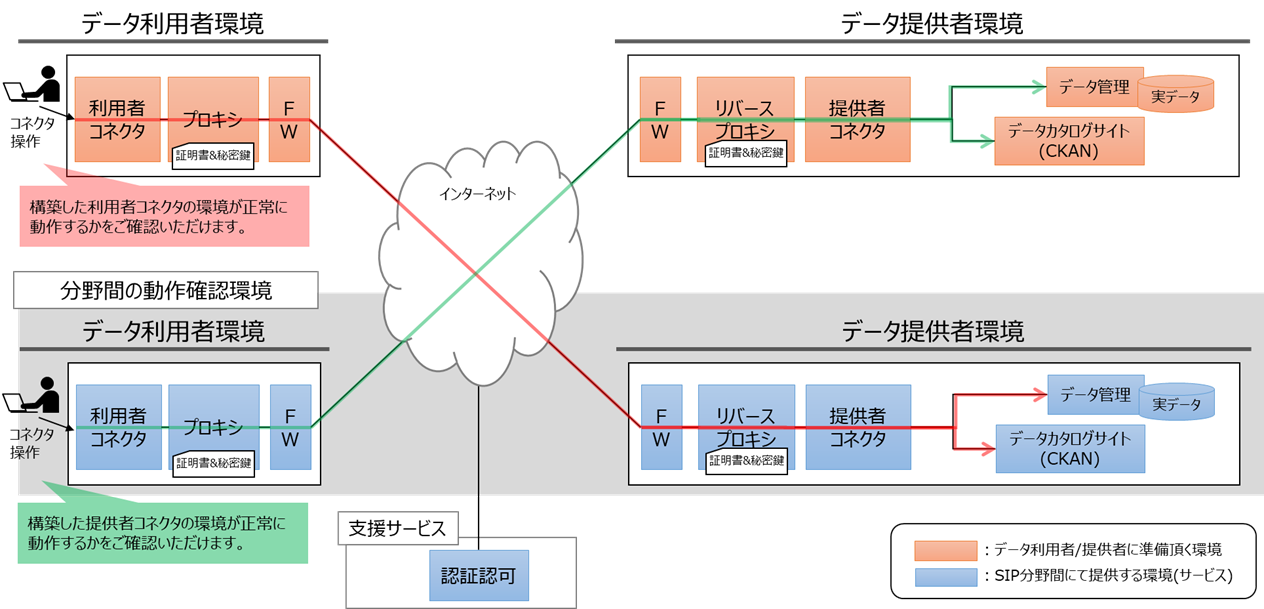
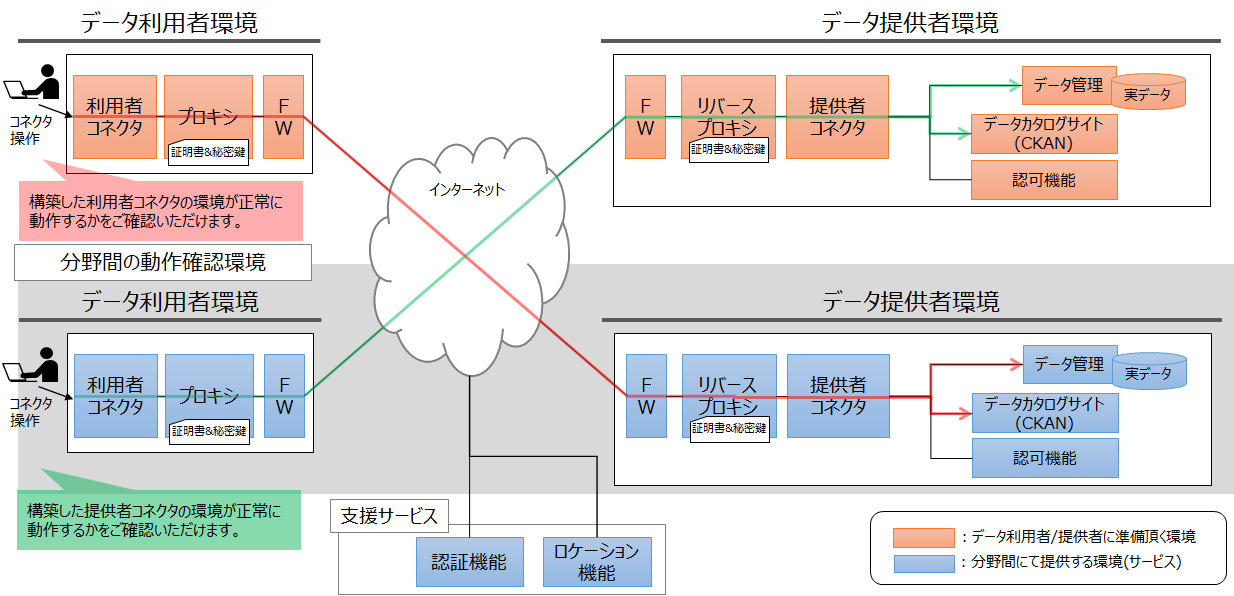
Develop 20230529 (#21)
* Create dummy_20230529.txrt

* Delete  misc/OperationCheck/connector

* Update OperationCheckManual.md

* Add files via upload

* Add files via upload

* Delete dummy_20230529.txrt

---------

diff --git a/doc/OperationCheckManual.md b/doc/OperationCheckManual.md
@@ -10,61 +10,45 @@
 - 利用者コネクタのプロキシに動作確認環境専用のクライアント証明書が設定されていることを前提とします。<br>
   [証明書のダウンロードはこちらから](../misc/OperationCheck/OperationCheckClientCertificate.zip) 
 
-## 利用者コネクタ設定手順
-動作確認環境の提供者コネクタに接続する際には利用者コネクタの設定を変更する必要があります。<br>
-Github上に設定済みのファイルを準備していますので以下の手順で置き換えください。
-
-```
-cd connector
-cp -p misc/OperationCheck/connector/src/consumer/authentication-authorization/swagger_server/configs/authentication.json src/consumer/authentication-authorization/swagger_server/configs/authentication.json
-cp -p misc/OperationCheck/connector/src/consumer/connector-main/swagger_server/configs/connector.json src/consumer/connector-main/swagger_server/configs/connector.json
-cp -p misc/OperationCheck/connector/src/consumer/connector-main/swagger_server/configs/idp.json src/consumer/connector-main/swagger_server/configs/idp.json
-cp -p misc/OperationCheck/connector/src/consumer/connector-main/swagger_server/configs/location.json src/consumer/connector-main/swagger_server/configs/location.json
-```
-
-置き換え後、利用者コネクタを再起動します。
-```
-cd src/consumer
-docker-compose -p consumer down
-docker-compose -p consumer up -d
-```
-
 ## 動作確認手順
 構築済みの利用者コネクタから動作確認環境の提供者コネクタに接続し、動作確認する手順です。
-### 1. アクセストークン取得
+### 1. 認証トークン取得
 
 ```
-curl -X POST -H "Cache-Control: no-cache" -H "Content-Type: application/json" -d '{ "consumer_id": "cadde:verify_user01.aa", "password": "uVa1BvnKas_5odW" }' https://key-authen.test.data-linkage.jp/cadde/api/v1/consumer/token
+curl -X POST -s https://authn.trial.data-linkage.jp/cadde/api/v4/token -H "Authorization:Basic {クライアントID:シークレットをBase64エンコードした文字列}" -H "Content-Type: application/json" -d '{"user_id": "{CADDEユーザID(利用者)}", "password": "{利用者のパスワード}"}'
 ```
-以下の結果が出力されていればアクセストークンの取得完了です。
+以下の結果が出力されていれば認証トークンの取得完了です。
 
 ```
-{"msg":"success","access_token":"{トークン}"}
+{"access_token":"{認証トークン}","refresh_token":"{リフレッシュトークン}"}
 ```
 
 ### 2. 詳細検索
-- Authorizationヘッダには、1．アクセストークン取得で発行したトークンの値を指定ください。
+- Authorizationヘッダには、1．認証トークン取得で発行したトークンの値を指定ください。
 ```
-curl -X GET -v "http://{利用者コネクタのFQDN}:{ポート番号}/api/3/action/package_search?fq=caddec_dataset_id_for_detail:5add6540-cc2a-5080-8720-619c95e81e9e" -s -S -H "Cache-Control: no-cache" -H "x-cadde-search: detail" -H "x-cadde-provider:cadde:verify_user01.aa" -H "x-idp-url:https://key-authen.test.data-linkage.jp/auth/realms/cadde-authentication" -H "Authorization:{トークン}"
+curl -X GET "http://{利用者コネクタのFQDN}:{ポート番号}/cadde/api/v4/catalog?fq=caddec_dataset_id_for_detail:69892235-883d-59cf-997c-3013f23dff9f" -s -S -H "Cache-Control: no-cache" -H "x-cadde-search: detail" -H "x-cadde-provider: cadde.operationcheck.aa" -H "Authorization:Bearer {認証トークン}"
 ```
 以下の結果が出力されていれば詳細検索完了です。
 
 ```
-{"help": "http://verify-provider.test.data-linkage.jp:5000/api/3/action/help_show?name=package_search", "success": true, "result": {"count": 1,～略～{}}}
+{"help": "http://172.22.40.101:5500/api/3/action/help_show?name=package_search", "success": true, "result": {"count": 1,～省略～{}}}
 ```
 
 ### 3. ファイル取得
-- Authorizationヘッダには、1．アクセストークン取得で発行したトークンの値を指定ください。
+- Authorizationヘッダには、1．認証トークン取得で発行したトークンの値を指定ください。
 ```
-curl -X GET -v "http://{利用者コネクタのFQDN}:{ポート番号}/cadde/api/v1/file" -H "x-cadde-resource-url:http://data-management/data/example_http.txt" -H "x-cadde-resource-api-type:file/http" -H "x-cadde-provider:cadde:verify_user01.aa" -H "x-idp-url:https://key-authen.test.data-linkage.jp/auth/realms/cadde-authentication" -H "Authorization:{トークン}" -o {出力ファイル名}
+curl -X GET "http://{利用者コネクタのFQDN}:{ポート番号}/cadde/api/v4/file" -s -S -H "Cache-Control: no-cache" -H "x-cadde-resource-url: http://data-management/operationcheck/data/operationcheck_example_http_detail.txt" -H "x-cadde-resource-api-type: file/http" -H "x-cadde-provider: cadde.operationcheck.aa" -H "Authorization:Bearer {認証トークン}" -o {出力ファイル名}
 ```
 
 以下の結果が出力されていれば動作確認完了です。
 
 ```
-Successful download
+#####
 
-example_http.txt
+Successful download
+operationcheck_example_http_detail.txt
+
+#####
 ```
 
 # 提供者コネクタ構築時の動作確認環境利用ガイド
@@ -73,66 +57,48 @@ example_http.txt
 - 提供者コネクタのリバースプロキシに動作確認環境専用のCA証明書が設定されていることを前提とします。<br>
   [証明書のダウンロードはこちらから](../misc/OperationCheck/OperationCheckClientCertificate.zip) 
 - 提供者コネクタ側の環境にFWが存在する場合、動作確認環境の利用者コネクタからの通信が許可されていることを前提とします。<br>
-  動作確認環境の利用者コネクタのIPアドレスは「35.75.141.64」となりますので、必要に応じて許可設定をお願いします。
-
-## 提供者コネクタ設定手順
-
-動作確認環境の利用者コネクタに接続する際には提供者コネクタの設定を変更する必要があります。<br>
-Github上に設定済みのファイルを準備していますので以下の手順で置き換えください。
-
-```
-cd connector
-cp -p misc/OperationCheck/connector/src/provider/authentication-authorization/swagger_server/configs/authentication.json src/provider/authentication-authorization/swagger_server/configs/authentication.json
-cp -p misc/OperationCheck/connector/src/provider/connector-main/swagger_server/configs/connector.json src/provider/connector-main/swagger_server/configs/connector.json
-```
-
-置き換え後、提供者コネクタを再起動します。
-```
-cd src/provider/
-docker-compose -p provider down
-docker-compose -p provider up -d
-```
+  動作確認環境の利用者コネクタのIPアドレスは「54.92.64.59/32」となりますので、必要に応じて許可設定をお願いします。
 
 ## 動作確認手順
 動作確認環境の利用者コネクタから構築済みの提供者コネクタに接続し、動作確認する手順です。
 curlコマンドを実行可能なコンソールより動作確認環境の利用者コネクタに対してコマンドを実行ください。
 
-### 1. アクセストークン取得
+### 1. 認証トークン取得
 
 ```
-curl -X POST -H "Cache-Control: no-cache" -H "Content-Type: application/json" -d '{ "consumer_id": "cadde:verify_user01.aa", "password": "uVa1BvnKas_5odW" }' https://key-authen.test.data-linkage.jp/cadde/api/v1/consumer/token
+curl -X POST -s https://authn.trial.data-linkage.jp/cadde/api/v4/token -H "Authorization:Basic Y29uc3VtZXItb3BlcmF0aW9uY2hlY2sudHJpYWwuZGF0YS1saW5rYWdlLmpwOm1BRk9CWjM5UDNaM1k4U2laYUN3Uk54dFlESE93U1Jz" -H "Content-Type: application/json" -d '{"user_id": "cadde.operationcheck.aa", "password": "tExSqL_m7S5G34i"}'
 ```
-以下の結果が出力されていればアクセストークンの取得完了です。
+以下の結果が出力されていれば認証トークンの取得完了です。
 
 ```
-{"msg":"success","access_token":"{トークン}"}
+{"access_token":"{認証トークン}","refresh_token":"{リフレッシュトークン}"}
 ```
 
 ### 2. 詳細検索
 
 - 検索クエリ内の{詳細検索用データセットID} には、ご自身で作成したカタログの値(extras:caddec_dataset_id_for_detail)を設定ください。
-- x-cadde-providerヘッダには、ご自身のCADDEユーザIDを指定ください。
-- Authorizationヘッダには、1．アクセストークン取得で発行したトークンの値を指定ください。
+- x-cadde-providerヘッダには、ご自身のCADDEユーザID(提供者)を指定ください。
+- Authorizationヘッダには、1．認証トークン取得で発行したトークンの値を指定ください。
 
 ```
-curl -X GET -v "https://verify-consumer.test.data-linkage.jp/api/3/action/package_search?fq=caddec_dataset_id_for_detail:{詳細検索用データセットID}" -s -S -H "Cache-Control: no-cache" -H "x-cadde-search: detail" -H "x-cadde-provider:{提供者ID}" -H "x-idp-url:https://key-authen.test.data-linkage.jp/auth/realms/cadde-authentication" -H "Authorization:{トークン}"
+curl -X GET "https://consumer-operationcheck.trial.data-linkage.jp/cadde/api/v4/catalog?fq=caddec_dataset_id_for_detail:{詳細検索用データセットID}" -s -S -H "Cache-Control: no-cache" -H "x-cadde-search: detail" -H "x-cadde-provider: {CADDEユーザID(提供者)}" -H "Authorization:Bearer {認証トークン}"
 ```
 
 以下の結果が出力されていれば詳細検索完了です。
 
 ```
-{"help": "http://CKAN_URL/api/3/action/help_show?name=package_search", "success": true, "result": {"count": 1,～略～{}}}
+{"help": "http://CKAN_URL/api/3/action/help_show?name=package_search", "success": true, "result": {"count": 1,～省略～{}}}
 ```
 
 ### 3. ファイル取得
 
 - x-cadde-resource-urlヘッダには、詳細カタログ検索結果(resources:download_url)から取得したファイルのダウンロードURLを指定ください。
 - x-cadde-resource-api-typeヘッダには、詳細カタログ検索結果(resources:caddec_resource_type)から取得したリソース提供手段の識別子(file/http or file/ftp)を指定ください。
-- x-cadde-providerヘッダには、ご自身のCADDEユーザIDを指定ください。
-- Authorizationヘッダには、1．アクセストークン取得で発行したトークンの値を指定ください。
+- x-cadde-providerヘッダには、ご自身のCADDEユーザID(提供者)を指定ください。
+- Authorizationヘッダには、1．認証トークン取得で発行したトークンの値を指定ください。
 
 ```
-curl -X GET -v "https://verify-consumer.test.data-linkage.jp/cadde/api/v1/file" -H "x-cadde-resource-url:{リソースURL}" -H "x-cadde-resource-api-type:{リソース提供手段の識別子}" -H "x-cadde-provider:{提供者ID}" -H "x-idp-url:https://key-authen.test.data-linkage.jp/auth/realms/cadde-authentication" -H "Authorization:{トークン}" -o {出力ファイル名}
+curl -X GET "https://consumer-operationcheck.trial.data-linkage.jp/cadde/api/v4/file" -s -S -H "Cache-Control: no-cache" -H "x-cadde-resource-url: {リソースURL}" -H "x-cadde-resource-api-type: {リソース提供手段の識別子}" -H "x-cadde-provider: {CADDEユーザID(提供者)}" -H "Authorization:Bearer {認証トークン}" -o {出力ファイル名}
 ```
 
 - x-cadde-resource-urlヘッダに設定したファイルが取得できれば動作確認は完了です。
@@ -142,22 +108,18 @@ curl -X GET -v "https://verify-consumer.test.data-linkage.jp/cadde/api/v1/file" 
 動作確認環境で使用している設定値について記載します。
 
 ### 利用者/提供者共通
-- CADDEユーザID：cadde:verify_user01.aa
-- CADDEユーザIDのパスワード：uVa1BvnKas_5odW
+- CADDEユーザID：cadde.operationcheck.aa
+- CADDEユーザIDのパスワード：tExSqL_m7S5G34i
 
 ### 利用者側コネクタ
 #### connector/src/consumer/connector-main/swagger_server/configs/connector.json
-- 利用者コネクタのID(consumer_connector_id)：https://verify-consumer.test.data-linkage.jp/
-- 利用者コネクタのシークレット(consumer_connector_secret)：25f1c50c-15e6-45d7-a918-cd273d43e276
-#### connector/src/consumer/authentication-authorization/swagger_server/configs/authentication.json
-- 認証サーバのURL(authentication_server_url) ：https://key-authen.test.data-linkage.jp/auth/realms/cadde-authentication
+- 利用者コネクタのID(consumer_connector_id)：consumer-operationcheck.trial.data-linkage.jp
+- 利用者コネクタのシークレット(consumer_connector_secret)：mAFOBZ39P3Z3Y8SiZaCwRNxtYDHOwSRs
 
 
 ### 提供者側コネクタ
-#### connector/src/provider/authentication-authorization/swagger_server/configs/authentication.json
-- 認可サーバのURL(authentication_server_url) ：https://key-author.test.data-linkage.jp/auth/realms/cadde-verify-authorization
 #### connector/src/provider/connector-main/swagger_server/configs/connector.json
-- 提供者コネクタのID(provider_connector_id) ：https://verify-provider.test.data-linkage.jp/
-- 提供者コネクタのシークレット(provider_connector_secret) ：dcfe2dbf-8cd1-4dd3-8512-8c7f044348aa
+- 提供者コネクタのID(provider_connector_id) ：ip-172-22-40-101.ap-northeast-1.compute.internal
+- 提供者コネクタのシークレット(provider_connector_secret) ：ql6ERT1IH3ody6I8NkjKvnYshfcGdnjm
 
 
